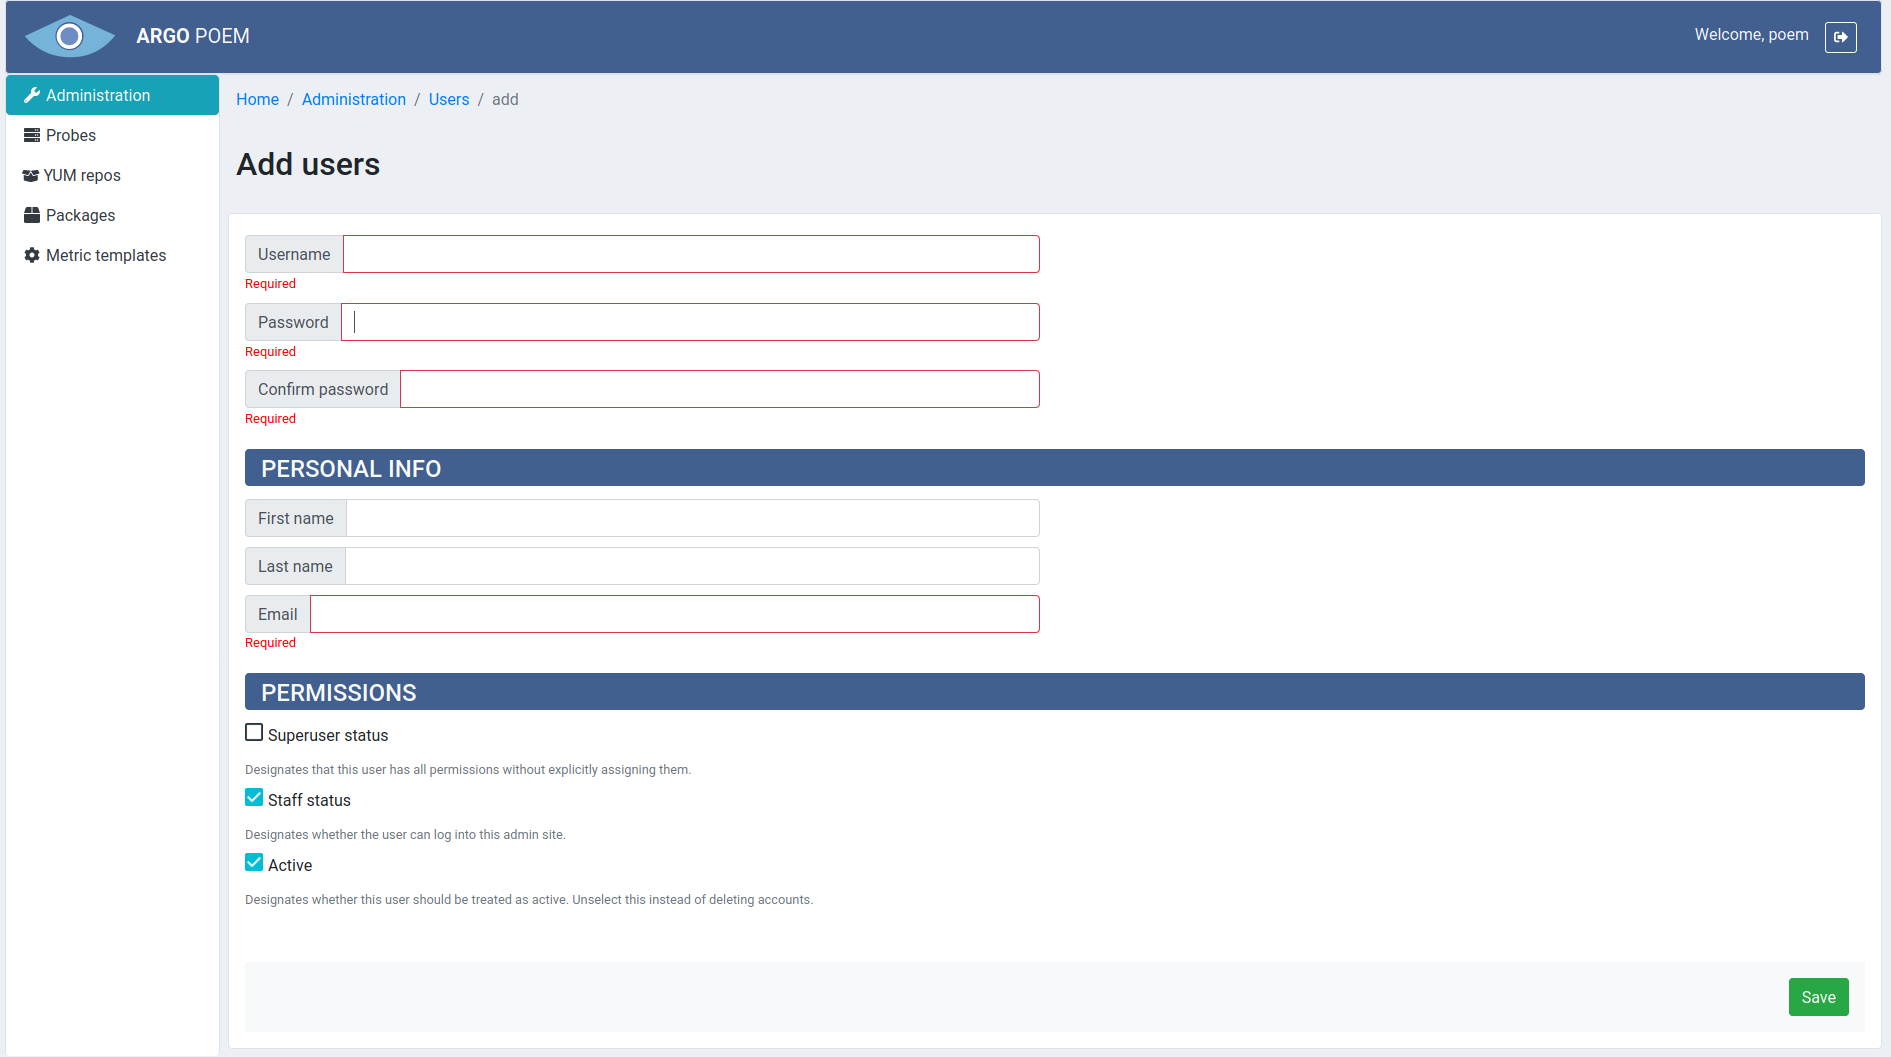
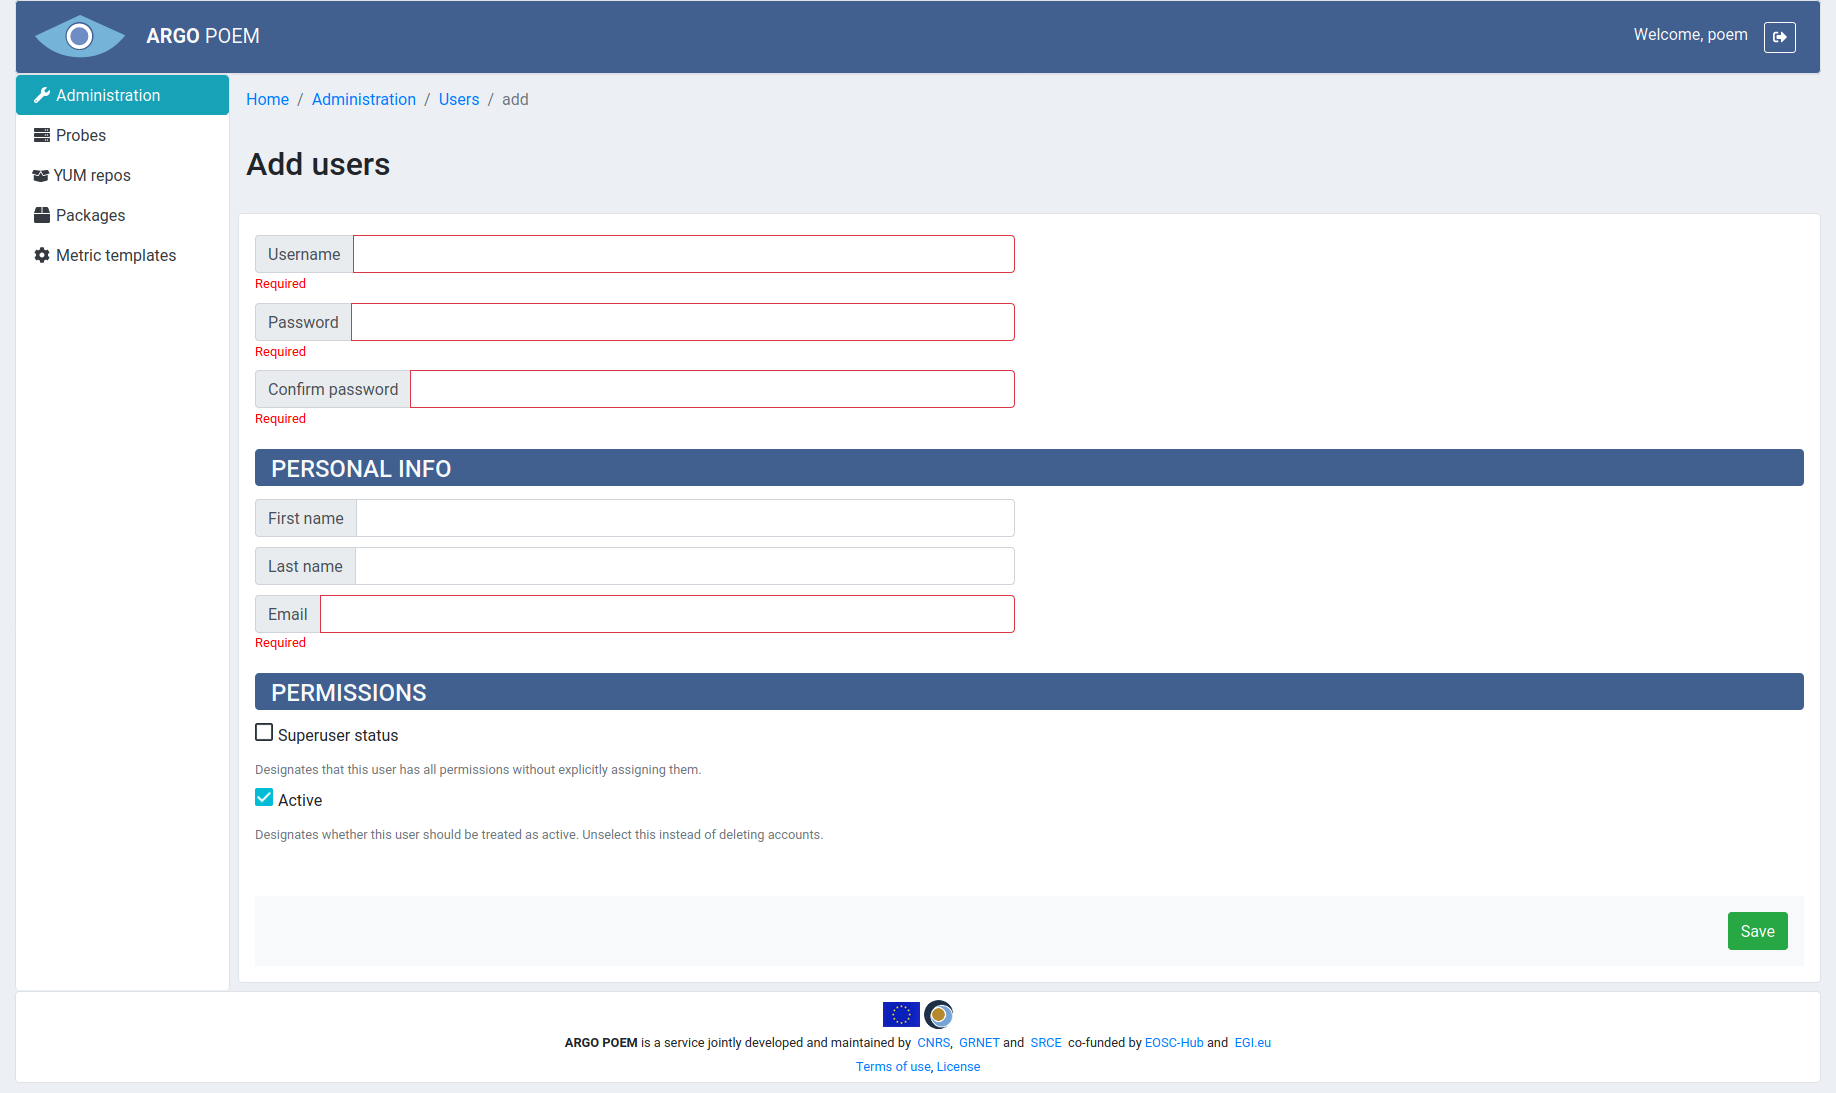
updated images related to users

diff --git a/doc/tenant_users.md b/doc/tenant_users.md
@@ -7,7 +7,7 @@ Only users with superuser status may modify users. By clicking on the name, user
 
 ![Tenant Users Detail](tenant_figs/users_details.png)
 
-The first four fields are self-explanatory. There are three checkbox in Permissions section. First checkbox sets superuser status - only users with this permission can access Administration page and make changes to users. By removing Active status from user, that user becomes inactive and is no longer able to log in to POEM.
+The first four fields are self-explanatory. There are two checkboxes in Permissions section. First checkbox sets superuser status - only users with this permission can access Administration page and make changes to users. By removing Active status from user, that user becomes inactive and is no longer able to log in to POEM.
 
 Section **POEM User Permissions** contains groups of resources associated with the user. If a group is associated to the user, (s)he is allowed to modify the resources which belong to the group. In the shown example, Group of metrics EUDAT is associated to the user, therefore user has permission to modify all the metrics in the said group. If user is a superuser, he has permission to change all the resources, regardless of groups.
 

diff --git a/doc/superadmin_users.md b/doc/superadmin_users.md
@@ -7,7 +7,7 @@ By clicking user's name, one can access its details, shown in the image below.
 
 ![SuperAdmin User Details](superadmin_figs/superadmin_user_details.png)
 
-The first four fields are self-explanatory. There are three checkboxes in Permissions section. First checkbox sets superuser status - only users with this permission can access Administration page and make changes to users. By removing Active status from user, that user is no longer able to log in to POEM.
+The first four fields are self-explanatory. There are two checkboxes in Permissions section. First checkbox sets superuser status - only users with this permission can access Administration page and make changes to users. By removing Active status from user, that user is no longer able to log in to POEM.
 
 When adding a new user (shown in the image below), there are 3 mandatory fields:
 * **Username**:
